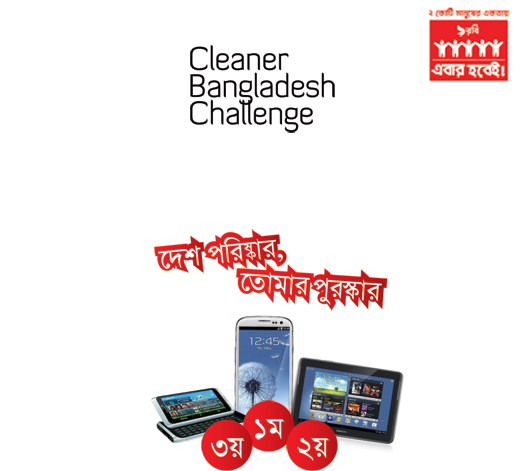
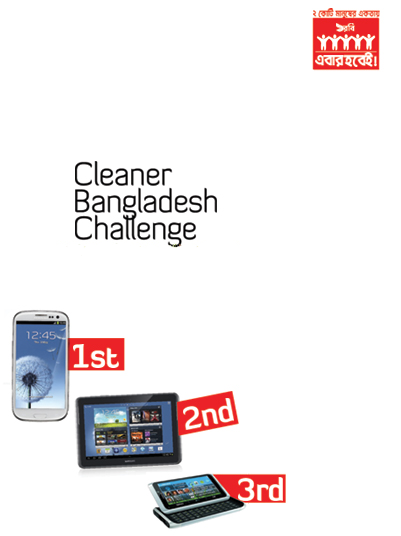
landing ui

Changed region(s): [[0.0299, 0.2972, 0.7781, 1.0], [0.3591, 0.0892, 0.6584, 0.2972], [0.7781, 0.0, 0.9875, 0.1783]]

diff --git a/app/assets/stylesheets/style.css b/app/assets/stylesheets/style.css
@@ -1,34 +1,86 @@
-a:link{
-	text-decoration:none;
-}
-a:visited{
-	background-color:#DE1A22;
-}
-a:hover{
-	background-color:#FD464D;
-}
-a:active{
-	 background-color:#FF704D;
-}
+
+
 #wrap{
-	width:550px;
+	width:520px;
 	margin:0 auto;
+	box-shadow:1px 1px 3px 2px;
+
 }
-
-iframe {border:0;overflow:hidden;}
-
-.content{
-	margin: auto;
+#wrap .corner{
+	padding:5px 5px 0 0;
+	float:right;
+	width:auto;
 }
-
-.logo{
+#wrap .header{
+	padding:40px 0 0 160px;
 	width:auto;
 	height:100px;
-	background-image:url(logo.png);
 }
 
+/*Content Section */
+
+#wrap .content{
+	padding:70px 0 0 120px;
+}
+#wrap .second_content{
+	padding:10px 0 0 200px;
+	
+}
+#wrap .fourth_content{
+	padding:100px 0 100px 170px;
+}
+#wrap .fiveth_content{
+}
+.point{
+	width:auto;
+	margin-left:160px;
+	margin-top:40px;
+
+}
+.name{
+	width:218px;
+	margin-left:164px;
+	height:auto;
+	box-shadow: 0px 1px 1px 1px rgba(0,0,0,0.1);
+}
+.name_style{
+	color:#AF1F24;
+	font-family:Arial, Helvetica, sans-serif;
+	font-size:12px;
+	line-height:0px;
+}
+.rank{
+	width:226;
+	margin-left:160px;
+	height:65px;
+	margin-right:135px;
+	background-color:#AF1F24;
+	border-radius: 6px;
+}
+.rank_name{
+	font-family:Arial, Helvetica, sans-serif;
+	font-size:14px;
+	color:#FFF;
+	line-height:0px;
+	text-decoration:none;
+}
+
+#wrap .rules{
+	padding:0 0 150px 210px;
+}
+
+#wrap .replay{
+	padding:0 0 30px 210px;
+}
+
+
+#wrap .logo{
+	height:109px;
+	background-image:url(logo.png);
+}
 .next{
 	float:right;
-	margin-top:67px;
-	margin-right:10px;
+	width:auto;
+	margin-top:50px;
+	margin-right:5px;
 }

diff --git a/app/assets/stylesheets/rules.css.scss b/app/assets/stylesheets/rules.css.scss
@@ -1,0 +1,3 @@
+// Place all the styles related to the rules controller here.
+// They will automatically be included in application.css.
+// You can use Sass (SCSS) here: http://sass-lang.com/

diff --git a/config/routes.rb b/config/routes.rb
@@ -6,8 +6,9 @@ Castrol::Application.routes.draw do
 
 
 
-  get "facebook/clean"
+  get "facebook/cleanr"
   get "facebook/landing_page"
+  get "facebook/rules"
 
   get "facebook/starting_page"
   post "facebook/point"

diff --git a/app/controllers/facebook_controller.rb b/app/controllers/facebook_controller.rb
@@ -18,7 +18,9 @@ class FacebookController < ApplicationController
     #@user = current_user
     #@graph = Koala::Facebook::API.new(@user.token_field)
   end
+  def rules
 
+  end
 
   def clean
 

diff --git a/test/functional/rules_controller_test.rb b/test/functional/rules_controller_test.rb
@@ -1,0 +1,7 @@
+require 'test_helper'
+
+class RulesControllerTest < ActionController::TestCase
+  # test "the truth" do
+  #   assert true
+  # end
+end

diff --git a/test/unit/helpers/rules_helper_test.rb b/test/unit/helpers/rules_helper_test.rb
@@ -1,0 +1,4 @@
+require 'test_helper'
+
+class RulesHelperTest < ActionView::TestCase
+end

diff --git a/app/helpers/rules_helper.rb b/app/helpers/rules_helper.rb
@@ -1,0 +1,2 @@
+module RulesHelper
+end
